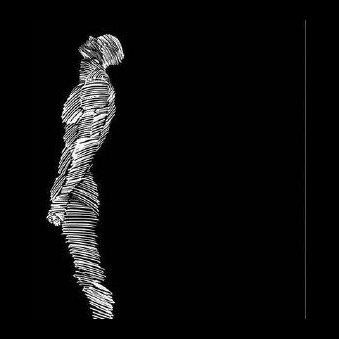
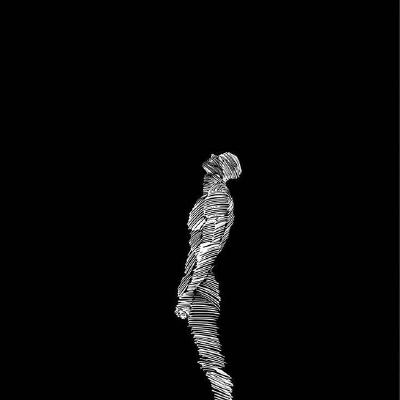
Update portrait artwork and remove gradient overlay

Changed region(s): [[0.118, 0.0885, 0.3835, 0.944], [0.413, 0.3835, 0.6195, 1.0], [0.9735, 0.0, 1.0, 1.0]]

diff --git a/scripts/generate_mark.py b/scripts/generate_mark.py
@@ -229,7 +229,6 @@ def build_svg(portrait_b64, caption):
 
         </g>
 
-        <rect x="0" y="292" width="320" height="28" fill="#0a0a0a" opacity="0.8"/>
       </g>
     </g>
 
@@ -262,7 +261,7 @@ def main():
         caption = "LAST COMMIT \u2014 UNAVAILABLE"
 
     svg = build_svg(portrait_b64, caption)
-    with open(OUT_PATH, "w") as f:
+    with open(OUT_PATH, "w", encoding="utf-8") as f:
         f.write(svg)
     print(f"Wrote {OUT_PATH} ({caption})")
 
